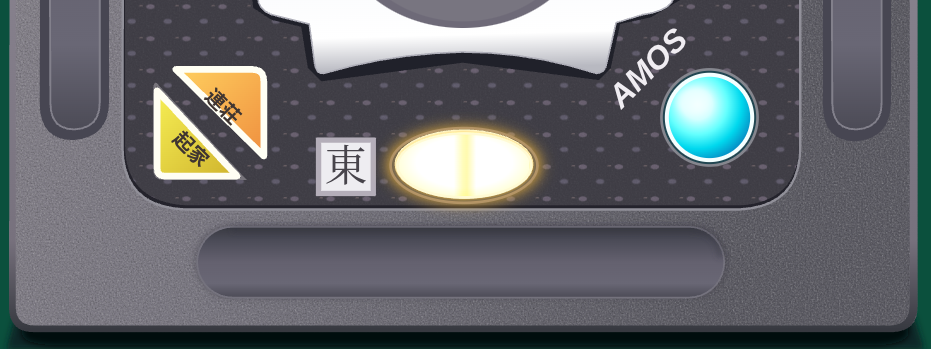
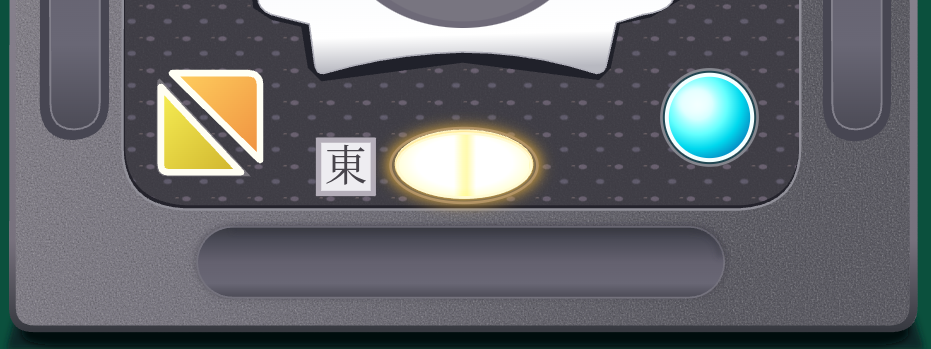
Limit stick headings to eight degrees and simplify control buttons

Changed region(s): [[0.1557, 0.1719, 0.3115, 0.5158], [0.6541, 0.086, 0.7476, 0.3152]]

diff --git a/tests/score-stick.test.js b/tests/score-stick.test.js
@@ -54,7 +54,9 @@ test('repeated pickup connects to the previous resting pose; sampling order is i
   assert.notDeepEqual(first.at(360), second.at(360));
 });
 
-test('successive drops pin the same midpoint and vary heading within 15 degrees of the original state', () => {
+test('successive drops pin the same midpoint and vary heading within 8 degrees of the original state', () => {
+  const limit = 8 * Math.PI / 180;
+  assert.equal(MAX_STICK_YAW, limit);
   const rng = random(93218), headings = new Set();
   let rest = REST_STICK;
   for (let index = 0; index < 80; index++) {
@@ -63,16 +65,16 @@ test('successive drops pin the same midpoint and vary heading within 15 degrees 
       const pose = drop.at(time);
       assert.equal(pose.x, STICK.x); assert.equal(pose.y, STICK.y);
       const axis = new Vector3(1, 0, 0).applyQuaternion(new Quaternion().fromArray(pose.quaternion));
-      assert.ok(Math.abs(Math.atan2(axis.y, axis.x)) <= MAX_STICK_YAW + .00001);
+      assert.ok(Math.abs(Math.atan2(axis.y, axis.x)) <= limit + .00001);
     }
     const q = drop.settled.quaternion;
     assert.equal(q[0], 0); assert.equal(q[1], 0);
-    headings.add(Math.round(2 * Math.atan2(q[2], q[3]) * 180 / Math.PI));
+    headings.add(Math.round(2 * Math.atan2(q[2], q[3]) * 1800 / Math.PI));
     rest = drop.settled;
   }
   assert.ok(headings.size > 20, 'Landing headings repeated rather than being newly sampled');
   for (const sample of [0, 1]) {
     const drop = createStickDrop(() => sample);
-    assert.ok(Math.abs(2 * Math.atan2(drop.settled.quaternion[2], drop.settled.quaternion[3])) <= Math.PI / 12 + .00001);
+    assert.ok(Math.abs(2 * Math.atan2(drop.settled.quaternion[2], drop.settled.quaternion[3])) <= limit + .00001);
   }
 });

diff --git a/styles.css b/styles.css
@@ -37,8 +37,8 @@ button:focus-visible, a:focus-visible { outline: 2px solid #f4f0e6; outline-offs
 }
 .reset:not(:disabled):hover .button-top { filter: brightness(1.08); transition-duration: 120ms; }
 .reset:not(:disabled):active .button-top { transform: translateY(2px); box-shadow: 0 1px 2px #8b6f30; }
-.dealer { left: 114px; top: 65px; width: 72px; height: 72px; clip-path: polygon(0 0, 100% 100%, 0 100%); }
-.streak { left: 128px; top: 49px; width: 73px; height: 73px; clip-path: polygon(0 0, 100% 0, 100% 100%); }
+.dealer { left: 114px; top: 65px; width: 72px; height: 72px; transform: translate(2.845940px, -2.889724px); clip-path: polygon(0 0, 100% 100%, 0 100%); }
+.streak { left: 128px; top: 49px; width: 73px; height: 73px; transform: translate(-2.845940px, 2.889724px); clip-path: polygon(0 0, 100% 0, 100% 100%); }
 .blue-light { left: 495px; top: 51px; width: 74px; height: 74px; border-radius: 50%; }
 .tile-hit {
   position: absolute; border: 0; padding: 0; background: transparent; border-radius: 8px;

diff --git a/score-stick.js b/score-stick.js
@@ -4,7 +4,7 @@ import { REAL_SIZE, mm, STICK_CENTER } from './physical-layout.js';
 
 // The same millimeter conversion as the tiles and 2D control box.
 export const STICK = Object.freeze({ length: mm(REAL_SIZE.stick.length), width: mm(REAL_SIZE.stick.width), thickness: mm(REAL_SIZE.stick.thickness), x: STICK_CENTER.x, y: -STICK_CENTER.y });
-export const MAX_STICK_YAW = Math.PI / 12;
+export const MAX_STICK_YAW = 8 * Math.PI / 180;
 export const REST_STICK = Object.freeze({ x: STICK.x, y: STICK.y, z: STICK.thickness / 2, quaternion: Object.freeze([0, 0, 0, 1]) });
 const STEP = 1 / 240, PICKUP = 360, GRAVITY = 1600;
 const corners = [];

diff --git a/README.md b/README.md
@@ -22,7 +22,7 @@
 
 ## 参考图控制盒
 
-控制盒按用户提供的 **698 × 262** 下半部分参考图重新绘制，纹理与部件由本地 `assets/control-box.svg` 提供，继续使用二维绘制。保留灰色颗粒外壳、紫灰点纹面板、上缘局部金属框、两侧纵向凹槽、起家与连庄三角按钮、黄色椭圆灯、蓝色圆灯、AMOS 标志、“東”标志和立直棒槽。
+控制盒按用户提供的 **698 × 262** 下半部分参考图重新绘制，纹理与部件由本地 `assets/control-box.svg` 提供，继续使用二维绘制。保留灰色颗粒外壳、紫灰点纹面板、上缘局部金属框、两侧纵向凹槽、起家与连庄三角按钮、黄色椭圆灯、蓝色圆灯、“東”标志和立直棒槽。三角按钮与品牌文字已去除；两个三角按钮保持原尺寸，对角白边之间的间距缩短为原来的一半。
 
 视口上沿对应参考图的 y = 0；绘图资产只包含参考图中露出的部分，不添加控制盒上半部分。外壳 x = 7..689 的宽度仍为 910 个设计像素，整张裁切图统一等比缩放，包含底部阴影的可见高度约为 349.6。黄色灯保留原来的悬停、按下反馈，以及正面状态下从左上角波纹重置的功能；起家、连庄及蓝色灯保留实物外观，暂不绑定新功能。
 
@@ -42,7 +42,7 @@
 
 - **实物参考**：[日本麻雀用具专门店的白色千点棒](https://item.rakuten.co.jp/auc-e-mahjong/siro-tenbo1000/)，商品尺寸约 65 × 7 × 3 mm。与牌和控制盒使用同一毫米比例，得到 455 × 49 × 21 的圆角实体；中央红点嵌入两侧宽面，棒体不显示标题或点数文字。[近代麻雀的点棒说明](https://kinmaweb.jp/mahjong-rule/tenbou)确认传统点棒依靠点纹区分点数。
 - **拿起与松手**：360 ms 抬起，每次改变长轴、短轴方向的倾角；随后在重力作用下掉落。拿起下一次时，从上一次落定的实际位置和方向连续开始。
-- **圆角与落点**：点棒外轮廓圆角约 0.8 mm，边缘使用 0.25 mm 的三段圆润倒角。整个动画的水平中点固定在立直棒槽中心；每次独立选择落定方向，相对最初水平状态在 **−15° 到 +15°** 之间，不累积上一次的角度。抬起与碰撞期间仍保留三维端部倾斜和摇晃，落定后棒体平放。
+- **圆角与落点**：点棒外轮廓圆角约 0.8 mm，边缘使用 0.25 mm 的三段圆润倒角。整个动画的水平中点固定在立直棒槽中心；每次独立选择落定方向，相对最初水平状态在 **−8° 到 +8°** 之间，不累积上一次的角度。抬起与碰撞期间仍保留三维端部倾斜和摇晃，落定后棒体平放。
 - **碰撞与弹跳**：使用 240 Hz 固定步长计算刚体角动量、惯性、角点接触冲量、恢复系数和摩擦，并约束水平中点和落定方向。一端先着地会带动棒体旋转，再发生另一端碰撞和回弹，约 1.0–1.4 秒后落定；没有预设的上下往返弹跳曲线。
 - **同一三维场景**：与麻将共用正上方正交相机、卡通材质和唯一方向光，阴影随真实高度和姿态变化。槽位、控制盒和导航按钮仍为二维。
 - **独立交互**：点棒掉落期间忽略重复点击，可以同时翻牌或重置；落定后可再次拿起。没有新增弹窗，也不根据系统动画偏好跳过动画。
@@ -86,7 +86,7 @@ npm run check
 npm test
 ```
 
-测试覆盖参考图裁切范围、三者统一毫米比例和槽位对齐、双向波纹、模型厚度、真实旋转关键帧、桌面穿透、正面 UV 方向、正交相机、抬起高度连续性，以及点棒的实物比例、圆角、端部碰撞、回弹、固定中点、连续 80 次落定角度变化与 ±15° 上限。检查工作流同时覆盖 main 与 v2 的推送。
+测试覆盖参考图裁切范围、三者统一毫米比例和槽位对齐、双向波纹、模型厚度、真实旋转关键帧、桌面穿透、正面 UV 方向、正交相机、抬起高度连续性，以及点棒的实物比例、圆角、端部碰撞、回弹、固定中点、连续 80 次落定角度变化与 ±8° 上限。检查工作流同时覆盖 main 与 v2 的推送。
 
 | 文件 | 用途 |
 | --- | --- |
